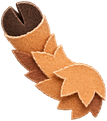
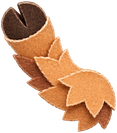
Fix Fizz's fuse, Gobbler's back-view buckle, Squidge's and Comet's front arms
- Fizz: the fuse grows from his lower back on the left and leans out past his arm, as in his
  painting, instead of floating above his head.
- Gobbler: the hat buckle only shows from the front, so it is painted out of the back-view hat.
- Squidge: the upper tentacles root under the head, so they no longer look detached.
- Comet: arms sit at chest height in front of his fur, like the painting, instead of poking out
  at the hips.

Claude-Session: https://claude.ai/code/session_014vwR7MChz94erZEKN6zEaG

diff --git a/tools/rig/characters/fizz.py b/tools/rig/characters/fizz.py
@@ -1,11 +1,41 @@
-"""Fizz: two legs, a fuse on his head with a spark that flickers at its tip."""
+"""Fizz: two legs, a fuse growing from his lower back with a spark that flickers at its tip."""
 import math
 import rig
 from rig import P, limb
 
 
+# The fuse grows out of his lower back on the left, like a tail, and leans out past his arm,
+# the way the painting has it. The drawing is tilted once here, since parts have no resting angle.
+FUSE_JOINT = [-250, 300]
+FUSE_TILT = 32  # degrees, top leaning out to the left
+FUSE_SCALE = 0.68
+
+
+def tilt_fuse(piv):
+    """Writes fuse-tilt.png and returns its pivot (at the rope's base) and the spark's offset from it."""
+    import math
+    from PIL import Image
+    im = Image.open("fizz/fuse.png")
+    w, h = im.size
+    base = (piv["fuse"][0] * w, (1 - piv["fuse"][1]) * h)
+    tip = (0.62 * w, h * (1 - 0.86))
+    out = im.rotate(FUSE_TILT, resample=Image.BICUBIC, expand=True)
+    W, H = out.size
+    a = math.radians(FUSE_TILT)
+
+    def move(pt):
+        x, y = pt[0] - w / 2, pt[1] - h / 2
+        # PIL turns counterclockwise on screen (y down).
+        return (x * math.cos(a) + y * math.sin(a) + W / 2, -x * math.sin(a) + y * math.cos(a) + H / 2)
+
+    b, t = move(base), move(tip)
+    out.save("fizz/fuse-tilt.png")
+    pivot = [round(b[0] / W, 4), round(1 - b[1] / H, 4)]
+    return pivot, ((t[0] - b[0]) * FUSE_SCALE, (b[1] - t[1]) * FUSE_SCALE)
+
+
 def manifest(piv):
-    fuse_h = 490 * 0.5  # fuse drawing height at its rig scale
+    fuse_pivot, (sx, sy) = tilt_fuse(piv)
     return {
         "name": "fizz",
         "view": "back",
@@ -19,10 +49,10 @@ def manifest(piv):
             limb("arm-r", "arm-hang-r", [205, 430], 0.42, -2,
                  {"fwd": "arm-fwd-r", "back": "arm-back-r", "up": "arm-up-r"}),
             # The fuse plays the sprout's part: it sways a beat behind the body.
-            {"name": "sprout", "image": "fuse", "scale": 0.5, "pivot": piv["fuse"], "joint": [-30, 790], "z": -1},
+            {"name": "sprout", "image": "fuse-tilt", "scale": FUSE_SCALE, "pivot": fuse_pivot, "joint": FUSE_JOINT, "z": -3},
             # The spark rides the fuse's tip.
             {"name": "spark", "image": "spark", "scale": 0.32, "pivot": piv["spark"],
-             "joint": [-30 + (0.62 - piv["fuse"][0]) * 267 * 0.5, 790 + fuse_h * 0.86], "z": 1, "parent": "sprout"},
+             "joint": [FUSE_JOINT[0] + sx, FUSE_JOINT[1] + sy], "z": 1, "parent": "sprout"},
             {"name": "body", "image": "body", "scale": 1.0, "pivot": [0.5, 0.0], "joint": [0, 105], "z": 0},
         ],
     }

diff --git a/tools/rig/characters/front.py b/tools/rig/characters/front.py
@@ -10,10 +10,10 @@ SETUPS = {
     "fizz": {"arm": [-215, 330], "scale": 0.5},
     # Wings go in front: his tail fan fills the space behind him.
     "gobbler": {"arm": [-190, 330], "scale": 0.5, "z": 1},
-    "comet": {"arm": [-180, 330], "scale": 0.5},
+    "comet": {"arm": [-205, 420], "scale": 0.55, "z": 1},
     "corrugo": {"arm": [-215, 410], "scale": 0.5},
     "wickling": {"arm": [-170, 440], "scale": 0.45},
-    "squidge": {"arm": [-235, 360], "scale": 0.5},
+    "squidge": {"arm": [-175, 330], "scale": 0.55},
     "crumple": {"arm": [-220, 390], "scale": 0.5},
 }
 
